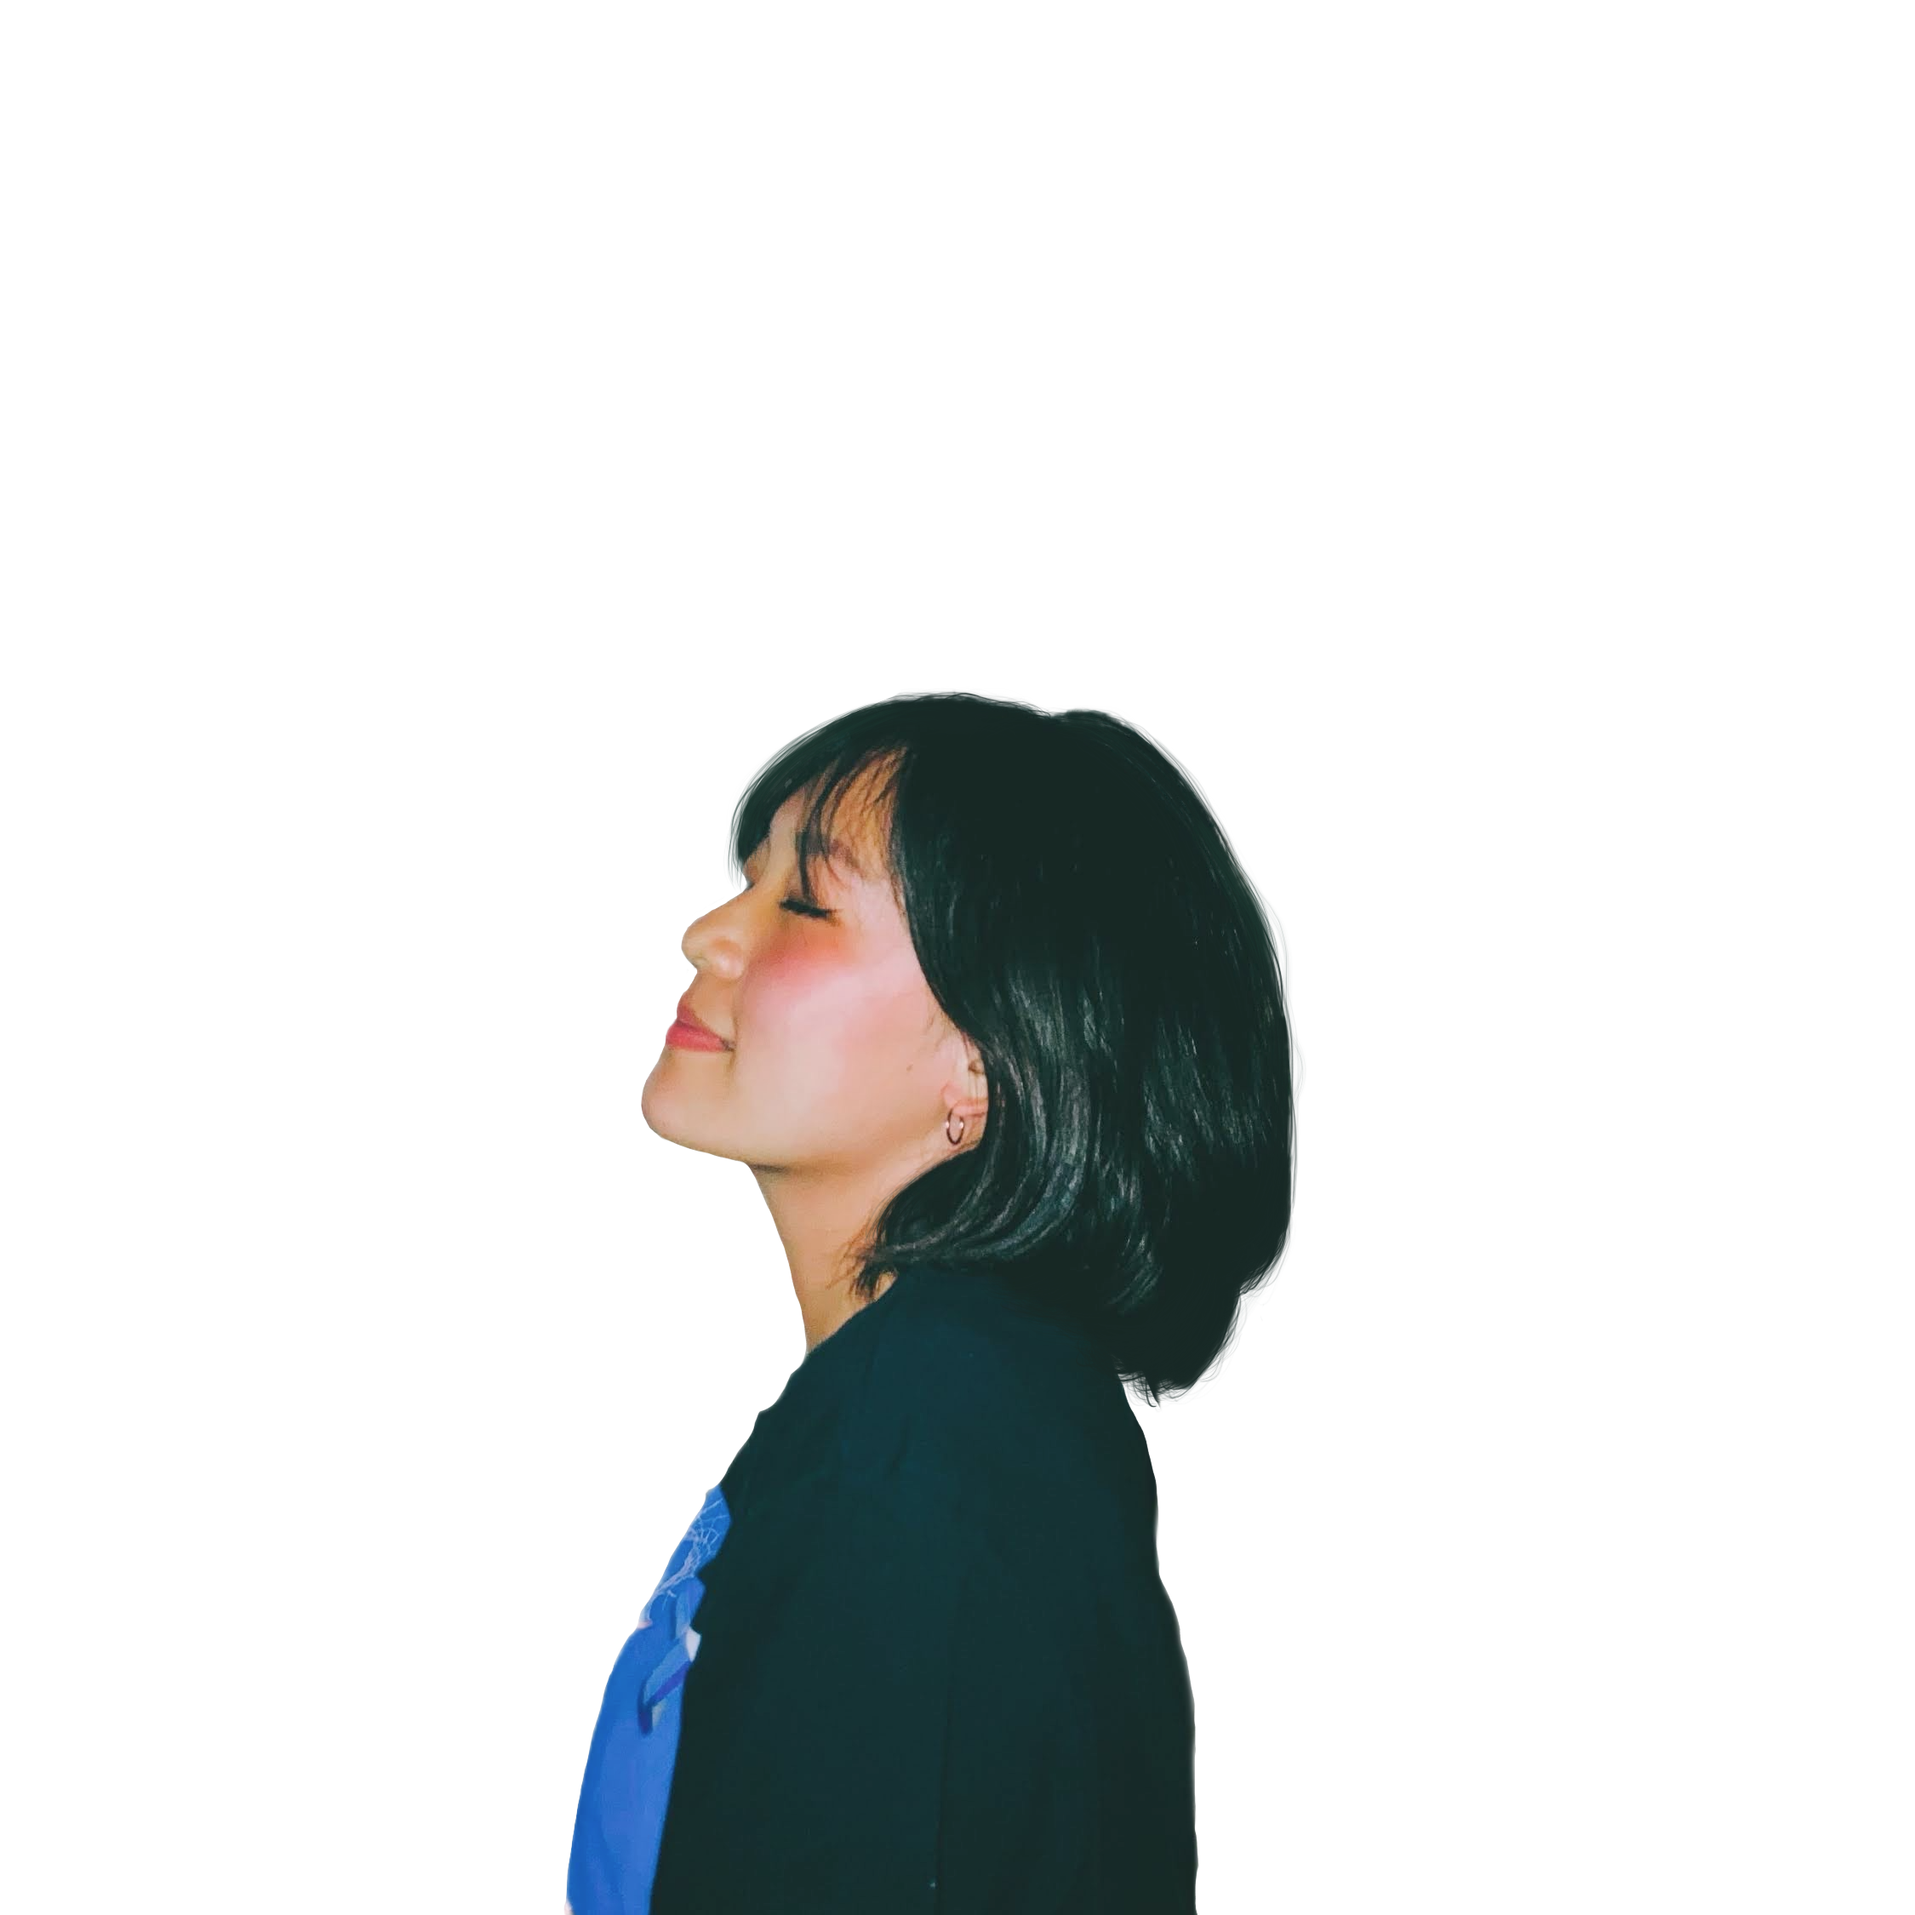
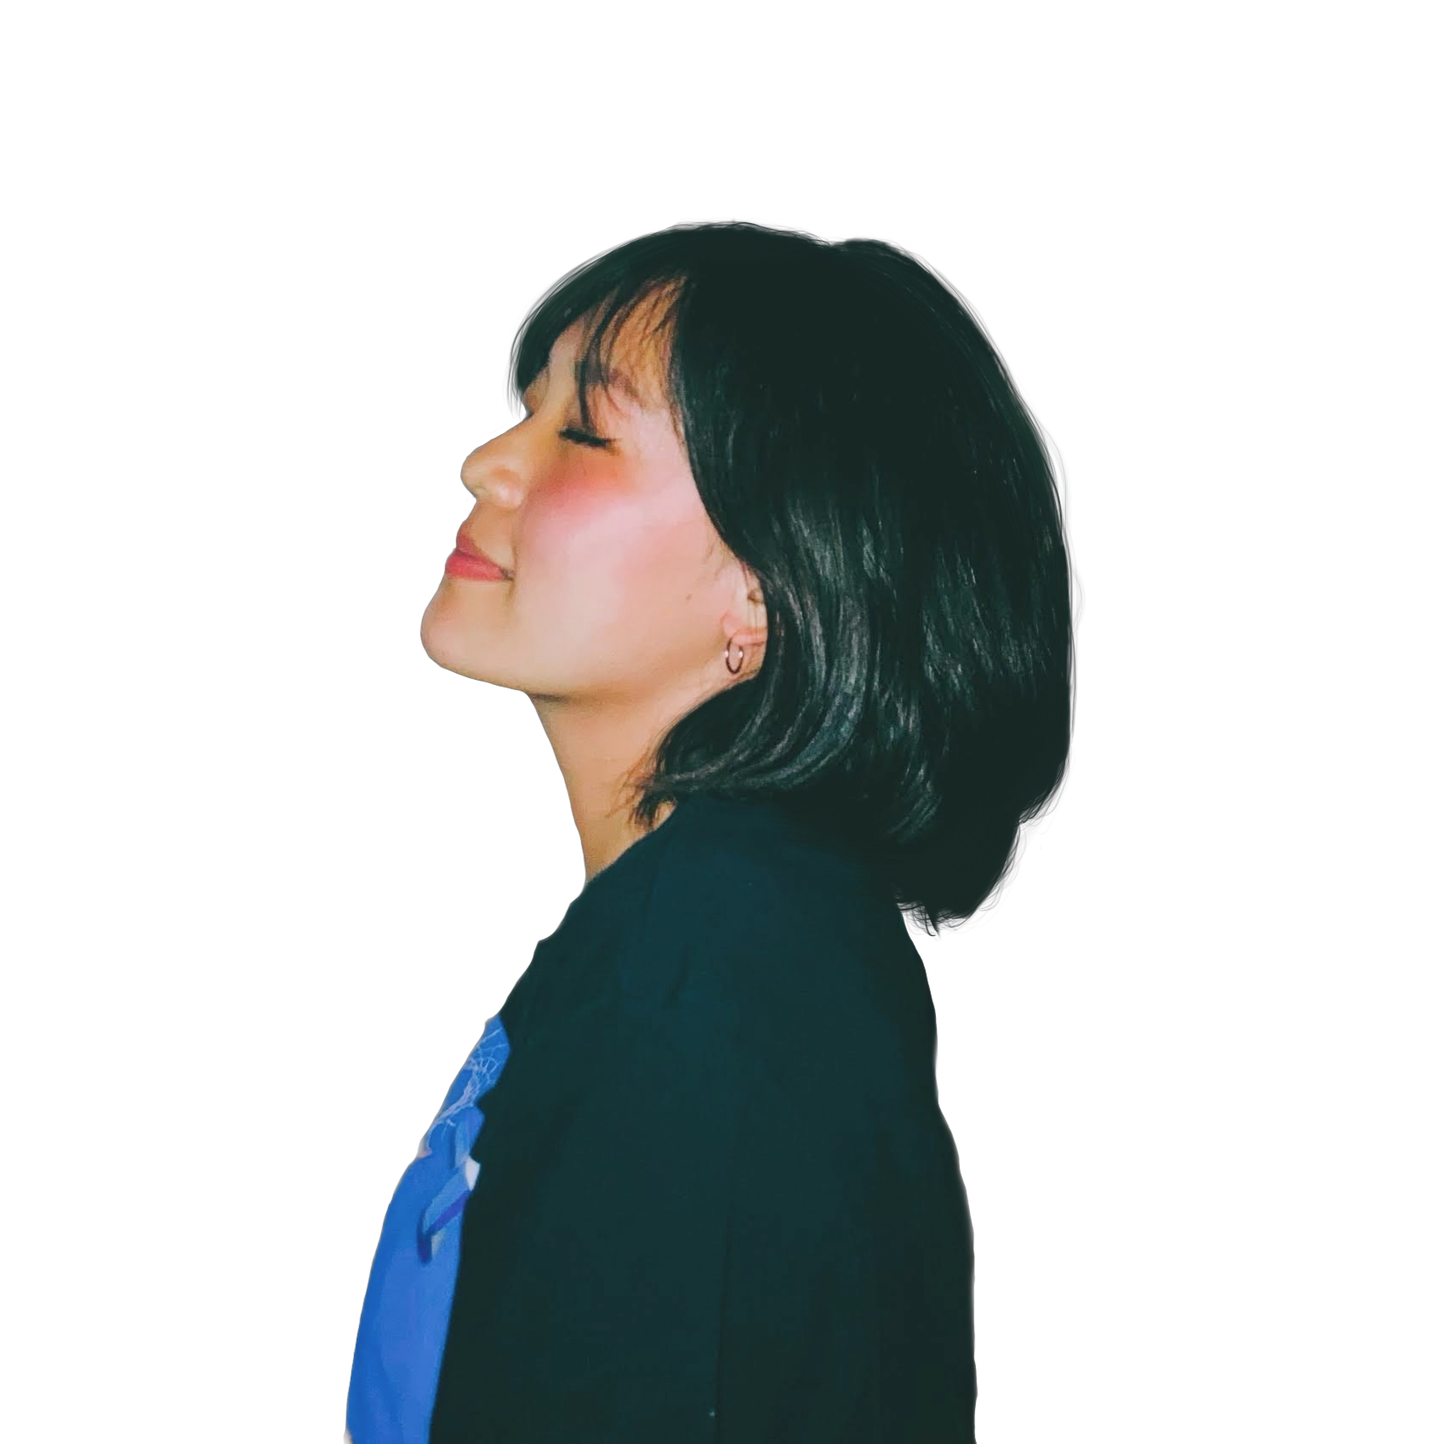
nextjs-react-portfolio-website completed

Changed region(s): [[0.2186, 0.1562, 0.7496, 1.0]]

diff --git a/nextjs-react-portfolio-website/pages/index.js b/nextjs-react-portfolio-website/pages/index.js
@@ -6,7 +6,7 @@ import {
 } from "react-icons/ai";
 import { BsFillMoonStarsFill } from "react-icons/bs";
 import { useState } from "react";
-import profileImg from "../public/dev-ed-wave.png";
+import profileImg from "../public/me.png";
 import code from "../public/code.png";
 import design from "../public/design.png";
 import consulting from "../public/consulting.png";
@@ -19,6 +19,7 @@ import web5 from "../public/web5.png";
 import web6 from "../public/web6.png";
 
 export default function Home() {
+  // State for toggling dark mode
   const [darkMode, setDarkMode] = useState(false);
 
   return (
@@ -40,7 +41,7 @@ export default function Home() {
               {/* Dark / Light Theme Button */}
               <li>
                 <BsFillMoonStarsFill
-                  onClick={() => setDarkMode(!darkMode)}
+                  onClick={() => setDarkMode(!darkMode)} // toggle
                   className="text-2xl cursor-pointer"
                 />
               </li>
@@ -88,10 +89,12 @@ export default function Home() {
           </div>
         </section>
 
+        {/* --------------- Business Section --------------- */}
         <section>
+          {/* ---- Texts ---- */}
           <div>
-            <h3 className="text-3xl py-1 dark:text-white ">Services I offer</h3>
-            <p className="text-md py-2 leading-8 text-gray-800 dark:text-gray-200">
+            <h3 className="py-1 text-3xl dark:text-white">Services I offer</h3>
+            <p className="py-2 text-md leading-8 text-gray-800 dark:text-gray-200">
               Since the beginning of my journey as a freelance designer and
               developer, I've done remote work for
               <span className="text-teal-500"> agencies </span>
@@ -99,15 +102,17 @@ export default function Home() {
               and collaborated with talanted people to create digital products
               for both business and consumer use.
             </p>
-            <p className="text-md py-2 leading-8 text-gray-800 dark:text-gray-200">
+            <p className="py-2 text-md leading-8 text-gray-800 dark:text-gray-200">
               I offer from a wide range of services, including brand design,
               programming and teaching.
             </p>
           </div>
+          {/* ---- Cards ---- */}
           <div className="lg:flex gap-10">
-            <div className="text-center shadow-lg p-10 rounded-xl my-10  dark:bg-white flex-1">
+            {/* Card 1 */}
+            <div className="flex-1 p-10 my-10 text-center shadow-lg rounded-xl dark:bg-white">
               <Image src={design} width={100} height={100} />
-              <h3 className="text-lg font-medium pt-8 pb-2  ">
+              <h3 className="pt-8 pb-2 text-lg font-medium">
                 Beautiful Designs
               </h3>
               <p className="py-2">
@@ -115,14 +120,15 @@ export default function Home() {
                 design theory.
               </p>
               <h4 className="py-4 text-teal-600">Design Tools I Use</h4>
-              <p className="text-gray-800 py-1">Photoshop</p>
-              <p className="text-gray-800 py-1">Illustrator</p>
-              <p className="text-gray-800 py-1">Figma</p>
-              <p className="text-gray-800 py-1">Indesign</p>
+              <p className="py-1 text-gray-800">Photoshop</p>
+              <p className="py-1 text-gray-800">Illustrator</p>
+              <p className="py-1 text-gray-800">Figma</p>
+              <p className="py-1 text-gray-800">Indesign</p>
             </div>
-            <div className="text-center shadow-lg p-10 rounded-xl my-10 dark:bg-white flex-1">
+            {/* Card 2 */}
+            <div className="flex-1 p-10 my-10 text-center shadow-lg rounded-xl dark:bg-white">
               <Image src={code} width={100} height={100} />
-              <h3 className="text-lg font-medium pt-8 pb-2 ">
+              <h3 className="pt-8 pb-2 text-lg font-medium">
                 Code your dream project
               </h3>
               <p className="py-2">
@@ -130,30 +136,34 @@ export default function Home() {
                 reality.
               </p>
               <h4 className="py-4 text-teal-600">Design Tools I Use</h4>
-              <p className="text-gray-800 py-1">Photoshop</p>
-              <p className="text-gray-800 py-1">Illustrator</p>
-              <p className="text-gray-800 py-1">Figma</p>
-              <p className="text-gray-800 py-1">Indesign</p>
+              <p className="py-1 text-gray-800">Photoshop</p>
+              <p className="py-1 text-gray-800">Illustrator</p>
+              <p className="py-1 text-gray-800">Figma</p>
+              <p className="py-1 text-gray-800">Indesign</p>
             </div>
-            <div className="text-center shadow-lg p-10 rounded-xl my-10 dark:bg-white flex-1">
+            {/* Card 3 */}
+            <div className="flex-1 p-10 my-10 text-center shadow-lg rounded-xl dark:bg-white">
               <Image src={consulting} width={100} height={100} />
-              <h3 className="text-lg font-medium pt-8 pb-2 ">Consulting</h3>
+              <h3 className="pt-8 pb-2 text-lg font-medium">Consulting</h3>
               <p className="py-2">
                 Are you interested in feedback for your current project? I can
                 give you tips and tricks to level it up.
               </p>
               <h4 className="py-4 text-teal-600">Design Tools I Use</h4>
-              <p className="text-gray-800 py-1">Photoshop</p>
-              <p className="text-gray-800 py-1">Illustrator</p>
-              <p className="text-gray-800 py-1">Figma</p>
-              <p className="text-gray-800 py-1">Indesign</p>
+              <p className="py-1 text-gray-800">Photoshop</p>
+              <p className="py-1 text-gray-800">Illustrator</p>
+              <p className="py-1 text-gray-800">Figma</p>
+              <p className="py-1 text-gray-800">Indesign</p>
             </div>
           </div>
         </section>
+
+        {/* --------------- Projects Section --------------- */}
         <section className="py-10">
+          {/* ---- Texts ---- */}
           <div>
-            <h3 className="text-3xl py-1 dark:text-white ">Portofolio</h3>
-            <p className="text-md py-2 leading-8 text-gray-800 dark:text-gray-200">
+            <h3 className="py-1 text-3xl dark:text-white ">Portofolio</h3>
+            <p className="py-2 text-md leading-8 text-gray-800 dark:text-gray-200">
               Since the beginning of my journey as a freelance designer and
               developer, I've done remote work for
               <span className="text-teal-500"> agencies </span>
@@ -161,13 +171,15 @@ export default function Home() {
               and collaborated with talanted people to create digital products
               for both business and consumer use.
             </p>
-            <p className="text-md py-2 leading-8 text-gray-800 dark:text-gray-200">
+            <p className="py-2 text-md leading-8 text-gray-800 dark:text-gray-200">
               I offer from a wide range of services, including brand design,
               programming and teaching.
             </p>
           </div>
-          <div className="flex flex-col gap-10 py-10 lg:flex-row lg:flex-wrap">
-            <div className="basis-1/3 flex-1 ">
+          {/* ---- Projects ---- */}
+          <div className="flex flex-col lg:flex-row lg:flex-wrap gap-10 py-10">
+            {/* Project 1 */}
+            <div className="flex-1 basis-1/3">
               <Image
                 className="rounded-lg object-cover"
                 width={"100%"}
@@ -176,7 +188,8 @@ export default function Home() {
                 src={web1}
               />
             </div>
-            <div className="basis-1/3 flex-1">
+            {/* Project 2 */}
+            <div className="flex-1 basis-1/3">
               <Image
                 className="rounded-lg object-cover"
                 width={"100%"}
@@ -185,7 +198,8 @@ export default function Home() {
                 src={web2}
               />
             </div>
-            <div className="basis-1/3 flex-1">
+            {/* Project 3 */}
+            <div className="flex-1 basis-1/3">
               <Image
                 className="rounded-lg object-cover"
                 width={"100%"}
@@ -194,7 +208,8 @@ export default function Home() {
                 src={web3}
               />
             </div>
-            <div className="basis-1/3 flex-1">
+            {/* Project 4 */}
+            <div className="flex-1 basis-1/3">
               <Image
                 className="rounded-lg object-cover"
                 width={"100%"}
@@ -203,7 +218,8 @@ export default function Home() {
                 src={web4}
               />
             </div>
-            <div className="basis-1/3 flex-1">
+            {/* Project 5 */}
+            <div className="flex-1 basis-1/3">
               <Image
                 className="rounded-lg object-cover"
                 width={"100%"}
@@ -212,7 +228,8 @@ export default function Home() {
                 src={web5}
               />
             </div>
-            <div className="basis-1/3 flex-1">
+            {/* Project 6 */}
+            <div className="flex-1 basis-1/3">
               <Image
                 className="rounded-lg object-cover"
                 width={"100%"}
